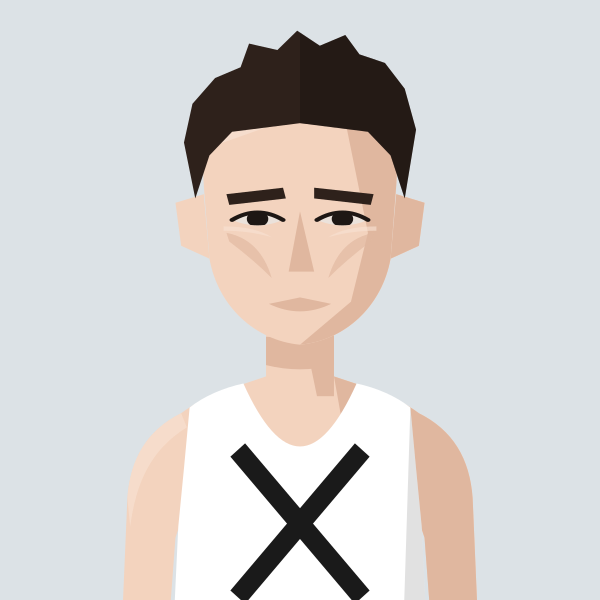
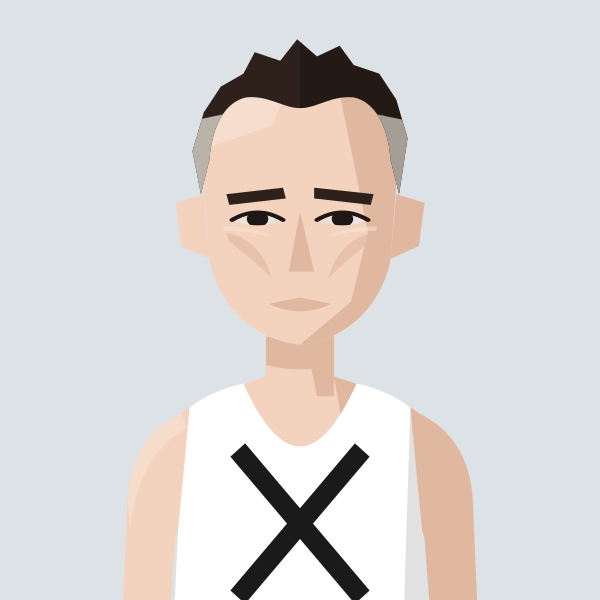
Simon Wurr: receding hairline, grey sides
Claude-Session: https://claude.ai/code/session_01MgmDWhFqnSSnP4iBLKXUZC

Changed region(s): [[0.3, 0.03, 0.69, 0.33]]

diff --git a/files/index.html b/files/index.html
@@ -583,7 +583,7 @@ return m;})();
 const portraitFile=(name,club)=>{const k=normalizeNameForCompare(name||'').replace(/\s*\(([^)]*)\)$/,(m,c)=>CLUBS[c.toUpperCase()]?'':m);const a=PORTRAITS[k];if(a&&a.club===club)return a.file;const b=PORTRAITS[k+'@'+club];return b?b.file:null;};
 // Athlete header figure: superstar portrait if we have one, else a grey runner in the club vest, else the plain vest icon
 // Changes whenever any portrait changes (set by tools/build_og.py), so browsers fetch fresh images instead of old cached ones
-const PORTRAIT_V='d60de55d';
+const PORTRAIT_V='4859a86b';
 const AthletePortrait=({name,club,w,fill,onClick})=>{const[failed,setFailed]=useState(false);const file=portraitFile(name,club);const src=file?`/portraits/athletes/${file}.svg?v=${PORTRAIT_V}`:PORTRAIT_CLUBS.has(club)?`/portraits/clubs/${club.replace(/\//g,'').replace(/&/g,'and')}.svg?v=${PORTRAIT_V}`:null;if(!src||failed)return<div onClick={onClick} className={onClick?'cursor-pointer':''}><ClubShield club={club} size={w}/></div>;const h=Math.round(w*148/126),ih=Math.round(w*1.4);if(fill)return<div onClick={onClick} className="cursor-pointer" style={{alignSelf:'stretch',minHeight:h,aspectRatio:'126 / 148',flexShrink:0,position:'relative',borderRadius:4,overflow:'hidden'}}><img src={src} alt={file?`Portrait of ${name.replace(/\s*\([^)]*\)$/,'')}`:`Runner in ${CLUBS[club]?.name||club} vest`} style={{position:'absolute',top:0,left:0,display:'block',width:'100%',height:'auto'}} onError={()=>setFailed(true)}/></div>;return<div style={{width:w,height:h,borderRadius:4,overflow:'hidden',flexShrink:0}}><img src={src} alt={file?`Portrait of ${name.replace(/\s*\([^)]*\)$/,'')}`:`Runner in ${CLUBS[club]?.name||club} vest`} width={w} height={ih} style={{display:'block',width:w,height:ih}} onError={()=>setFailed(true)}/></div>;};
 const getClubVestSvg=(club)=>{
   const p="M3 0 L6 0 Q7 4 10 5 Q13 4 14 0 L17 0 L17 20 L3 20 Z";

diff --git a/tools/gen_portraits.py b/tools/gen_portraits.py
@@ -793,4 +793,4 @@ save("james-murray", figure("KEN", skin=1, hair="sweptback", hair_colour="#3A282
 save("phil-woodford-smith", figure("KEN", skin=1, hair="slick", hair_colour="#241A15", facial="shortbeard", facial_colour="#1C1410"))
 save("james-ewing", figure("KEN", skin=3, hair="crop", hair_colour="#241A15", gaunt=True))
 save("cameron-dockerill", figure("KEN", skin=1, hair="quiff", hair_colour="#3A2820"))
-save("simon-wurr", figure("THH", skin=1, hair="tousled", hair_colour="#2E211B", gaunt=True))
+save("simon-wurr", figure("THH", skin=1, hair="tuftrecede", hair_colour="#2E211B", greying="sides", gaunt=True))
